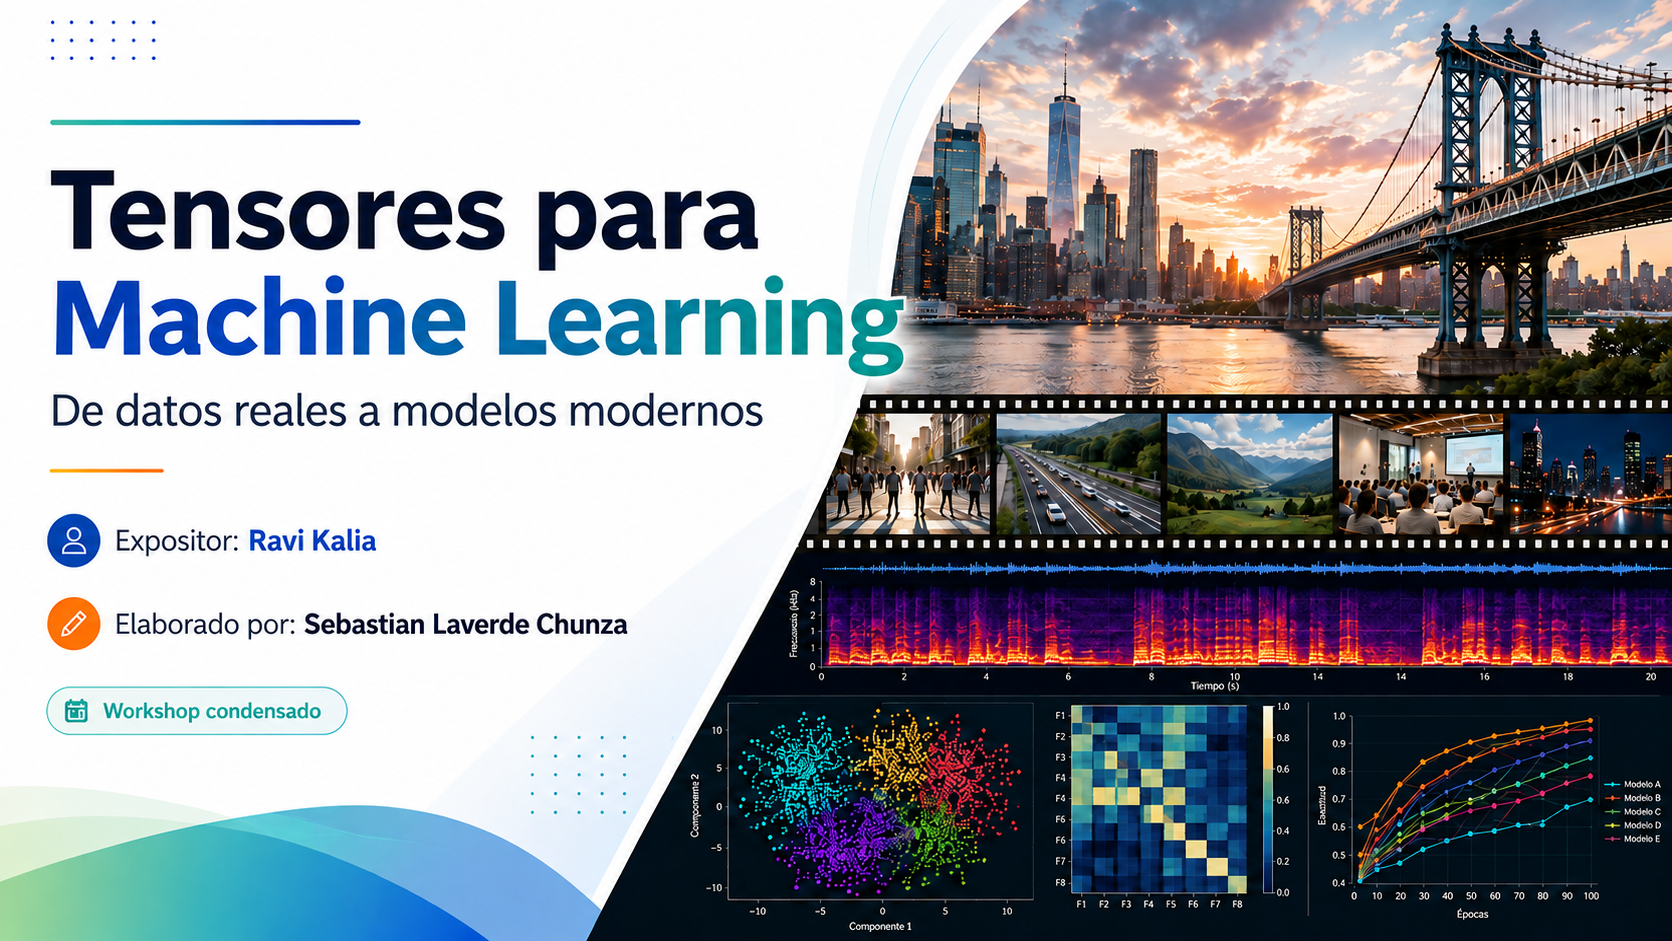
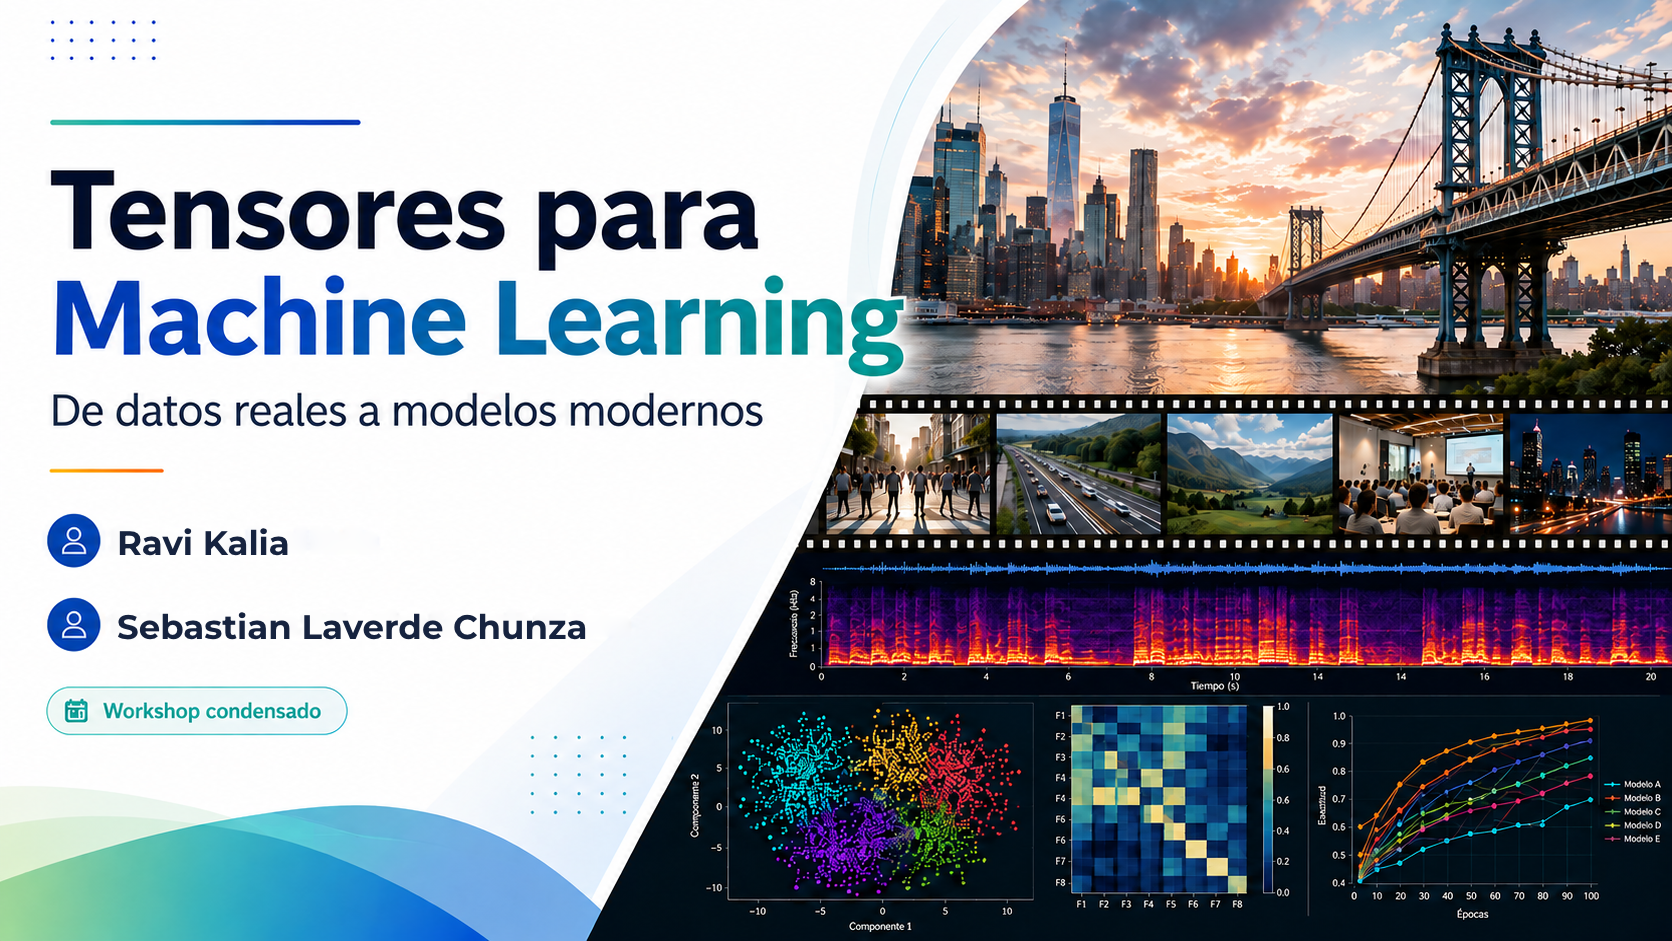
fix: credit both names equally, and link the generated companion
The title slide credited "Presenter: Ravi Kalia" and "Prepared by: Sebastian
Laverde Chunza" -- two people, two roles, and a visual hierarchy to match: the
second name carried a pencil icon and a different accent. The workshop is not
divided that way, so both decks' art now lists the two names plainly, on the
same icon and the same weight, and the sr-only line each deck reads to a
screen reader says the same thing the picture does.

Further reading also gains a machine-generated companion: a shared Gemini
Notebook covering the same ground in English. It is filed under its own
heading and labelled as generated rather than written, so nobody mistakes it
for the books and papers above it -- it is a second pass over material already
seen, and its claims are to be checked against those.

slide-01 has no generator -- it is one of the hand-drawn PNGs from the #45
redesign -- so both language files were redrawn in the tool that made them.

Claude-Session: https://claude.ai/code/session_01SdQeGzW9MQoXBqYAULP1DB

Changed region(s): [[0.0311, 0.6164, 0.3732, 0.7088], [0.0622, 0.5547, 0.2488, 0.5855]]

diff --git a/docs/tensors_workshop_plan_with_quizzes.html b/docs/tensors_workshop_plan_with_quizzes.html
@@ -257,6 +257,7 @@ background-size: cover;
   <li><a href="#linear-algebra-to-go-deeper" id="toc-linear-algebra-to-go-deeper" class="nav-link" data-scroll-target="#linear-algebra-to-go-deeper">Linear algebra, to go deeper</a></li>
   <li><a href="#tensors-specifically" id="toc-tensors-specifically" class="nav-link" data-scroll-target="#tensors-specifically">Tensors specifically</a></li>
   <li><a href="#software" id="toc-software" class="nav-link" data-scroll-target="#software">Software</a></li>
+  <li><a href="#a-machine-generated-companion" id="toc-a-machine-generated-companion" class="nav-link" data-scroll-target="#a-machine-generated-companion">A machine-generated companion</a></li>
   </ul></li>
   <li><a href="#appendix-a-take-home-how-many-principal-components-are-enough" id="toc-appendix-a-take-home-how-many-principal-components-are-enough" class="nav-link" data-scroll-target="#appendix-a-take-home-how-many-principal-components-are-enough">Appendix A — Take-Home: How Many Principal Components Are Enough?</a></li>
   <li><a href="#appendix-b-take-home-attention-is-two-contractions" id="toc-appendix-b-take-home-attention-is-two-contractions" class="nav-link" data-scroll-target="#appendix-b-take-home-attention-is-two-contractions">Appendix B — Take-Home: Attention Is Two Contractions</a></li>
@@ -1323,6 +1324,12 @@ Solution
 <h3 class="anchored" data-anchor-id="software">Software</h3>
 <ul>
 <li><a href="https://tensorly.org"><code>tensorly</code></a> docs — <a href="https://tensorly.org/stable/modules/generated/tensorly.decomposition.tucker.html">Tucker</a> and <a href="https://tensorly.org/dev/modules/generated/tensorly.decomposition.CP.html">CP</a> implementations, used in section 10 and Appendix C. Created by <a href="https://jeankossaifi.com/">Jean Kossaifi</a>.</li>
+</ul>
+</section>
+<section id="a-machine-generated-companion" class="level3">
+<h3 class="anchored" data-anchor-id="a-machine-generated-companion">A machine-generated companion</h3>
+<ul>
+<li><a href="https://notebook.google.com/notebook/29755b94-43c4-46ca-83b8-8cf0524f040c/artifact/53361223-7a9f-4eda-a928-64a2080421eb"><em>Tensors in Machine Learning Overview</em></a> — a shared Gemini Notebook that walks the same ground as today, in English. It is generated, not written: use it as a second pass over material you have already seen, and check anything it asserts against the books and papers above.</li>
 </ul>
 <hr>
 </section>

diff --git a/docs/slides/en/index.html b/docs/slides/en/index.html
@@ -130,7 +130,7 @@
 <section id="section" class="slide level2" data-background-image="images/slides-final/slide-01.png" data-background-size="contain" data-background-repeat="no-repeat" data-background-position="center" data-background-color="#ffffff">
 <h2></h2>
 <p class="sr-only">
-Tensors for Machine Learning — from real data to modern models. Presenter: Ravi Kalia. Prepared by: Sebastian Laverde Chunza.
+Tensors for Machine Learning — from real data to modern models. Ravi Kalia and Sebastian Laverde Chunza.
 </p>
 <aside class="notes">
 <p>Say this out loud: nobody is expected to know tensor theory. Every new term is defined the first time it appears. Students are ESL (Colombia) — speak slowly, avoid idiom, and name the Spanish cognates early: eje, descomposición, contracción, convolución.</p>

diff --git a/docs/slides/es/index.html b/docs/slides/es/index.html
@@ -130,7 +130,7 @@
 <section id="section" class="slide level2" data-background-image="images/slides-final/slide-01.png" data-background-size="contain" data-background-repeat="no-repeat" data-background-position="center" data-background-color="#ffffff">
 <h2></h2>
 <p class="sr-only">
-Tensores para Machine Learning — de datos reales a modelos modernos. Expositor: Ravi Kalia. Elaborado por: Sebastian Laverde Chunza.
+Tensores para Machine Learning — de datos reales a modelos modernos. Ravi Kalia y Sebastian Laverde Chunza.
 </p>
 <aside class="notes">
 <p>Dilo en voz alta: nadie tiene por qué saber teoría de tensores. Cada término nuevo se define la primera vez que aparece. Habla despacio y evita modismos; nombra pronto los cognados: eje, descomposición, contracción, convolución.</p>

diff --git a/tensors_workshop_plan_with_quizzes.md b/tensors_workshop_plan_with_quizzes.md
@@ -807,6 +807,10 @@ What you did today:
 
 - [`tensorly`](https://tensorly.org) docs — [Tucker](https://tensorly.org/stable/modules/generated/tensorly.decomposition.tucker.html) and [CP](https://tensorly.org/dev/modules/generated/tensorly.decomposition.CP.html) implementations, used in section 10 and Appendix C. Created by [Jean Kossaifi](https://jeankossaifi.com/).
 
+### A machine-generated companion
+
+- [*Tensors in Machine Learning Overview*](https://notebook.google.com/notebook/29755b94-43c4-46ca-83b8-8cf0524f040c/artifact/53361223-7a9f-4eda-a928-64a2080421eb) — a shared Gemini Notebook that walks the same ground as today, in English. It is generated, not written: use it as a second pass over material you have already seen, and check anything it asserts against the books and papers above.
+
 ---
 
 ## Appendix A — Take-Home: How Many Principal Components Are Enough?
